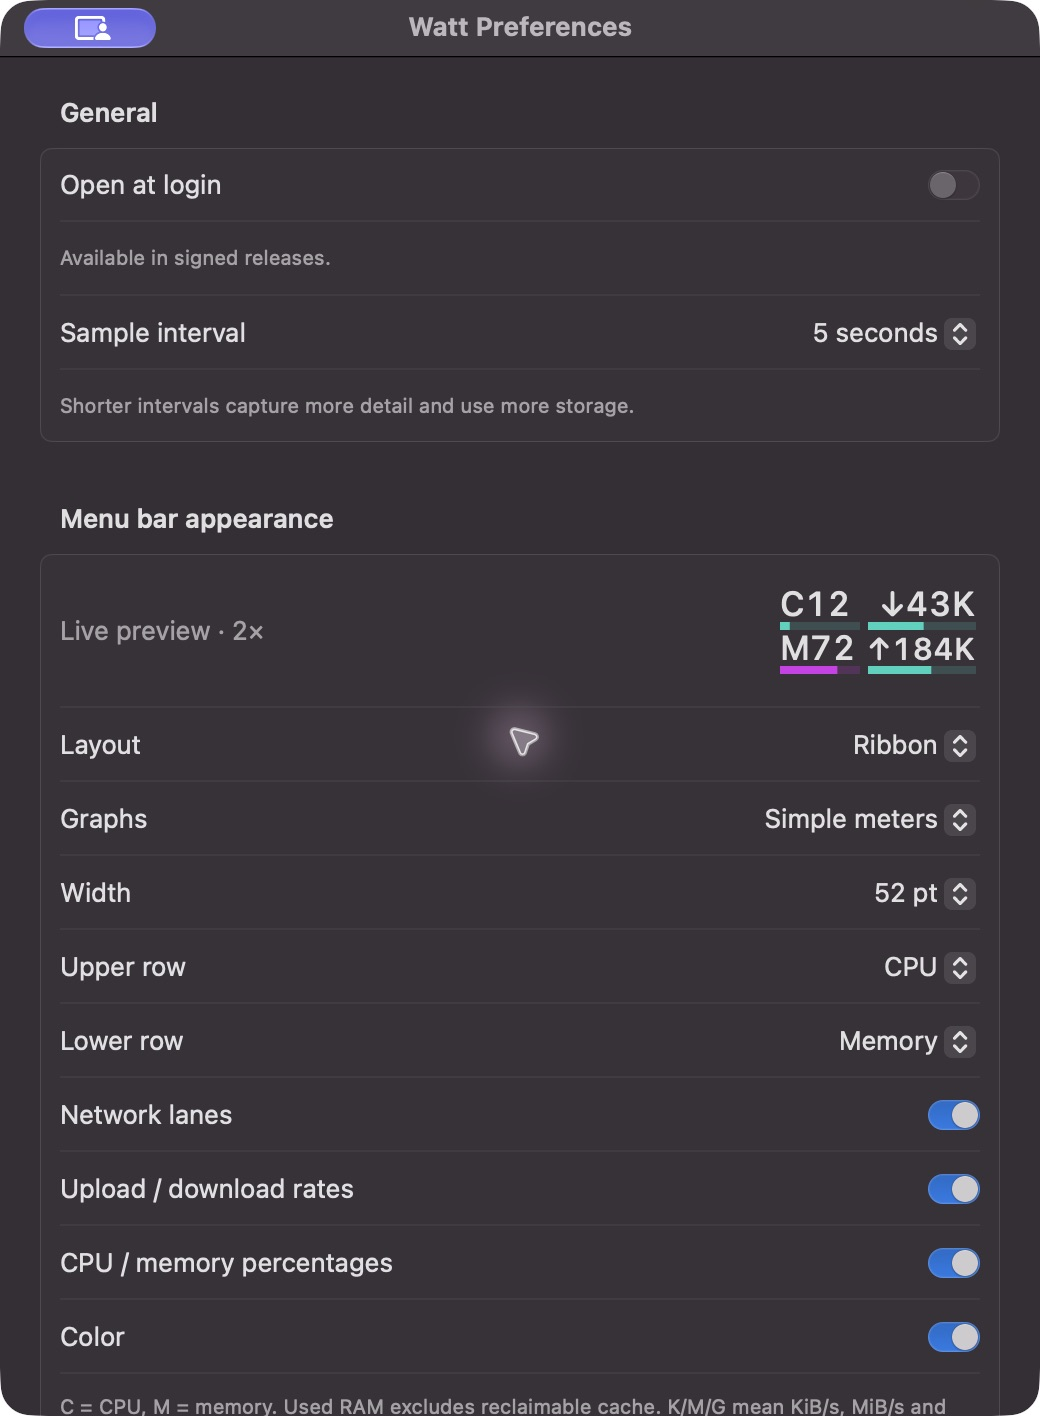
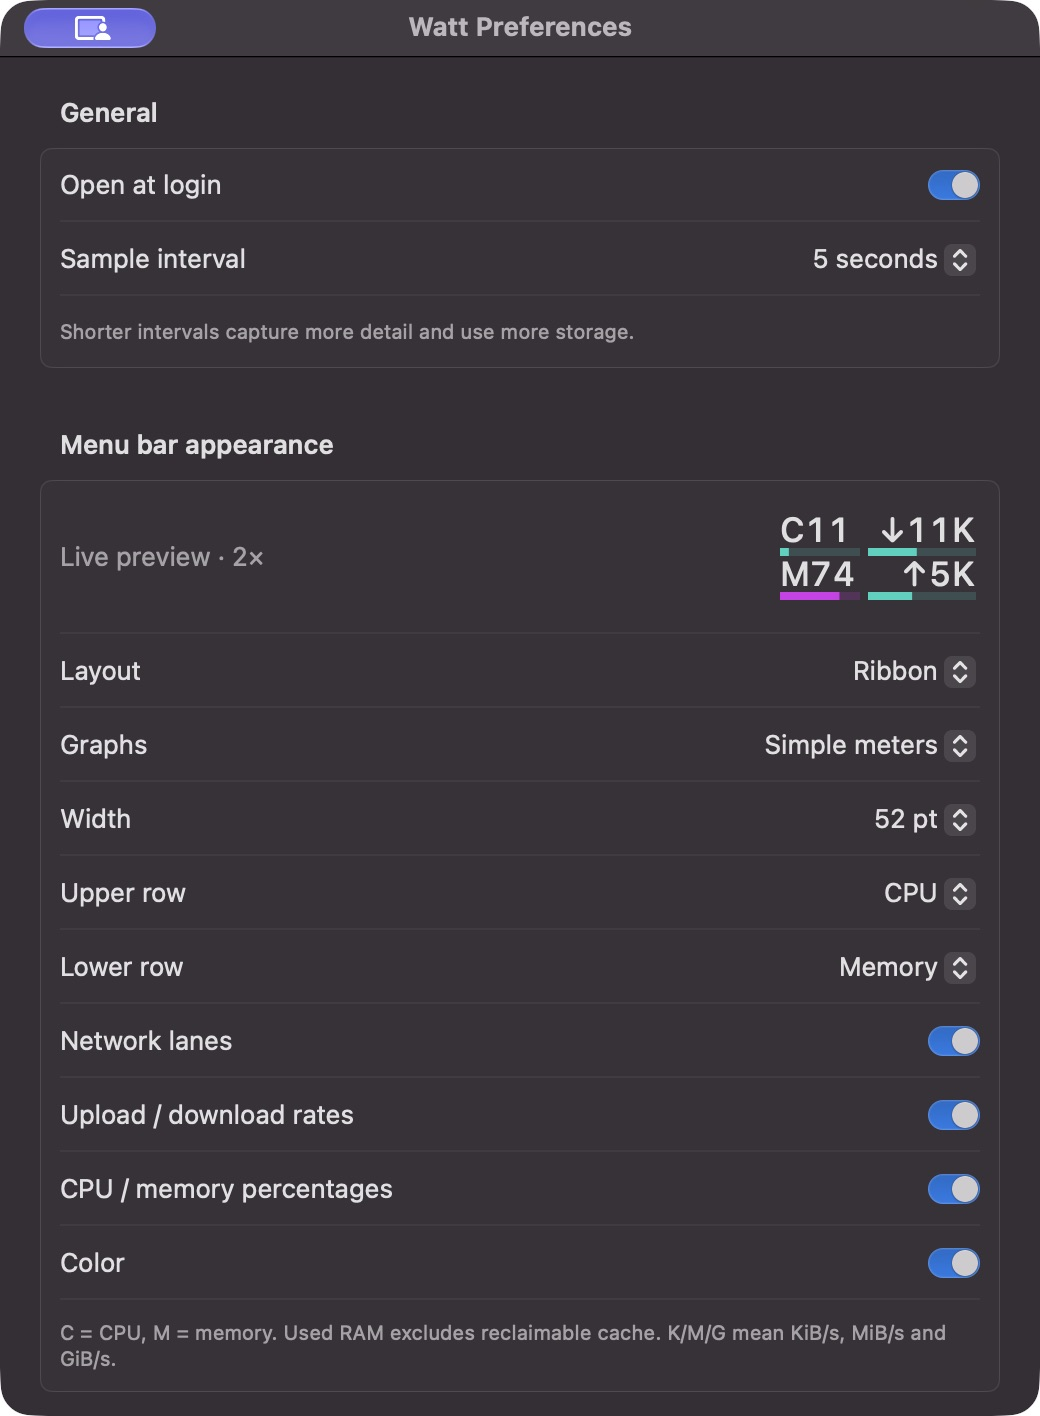
Support Apple Development-signed login builds

diff --git a/Sources/Watt/LoginItemManager.swift b/Sources/Watt/LoginItemManager.swift
@@ -1,5 +1,6 @@
 import Combine
 import Foundation
+import Security
 import ServiceManagement
 
 @MainActor protocol LoginItemService {
@@ -19,6 +20,37 @@ import ServiceManagement
 
 @MainActor final class LoginItemManager:ObservableObject {
     static let setupKey="loginItem.initialSetupCompleted"
+    // Main-app login items accept ordinary Apple-signed app builds. The energy
+    // helper has a separate Developer ID policy which does not apply here.
+    static var isSignedApp:Bool {
+        let bundle=Bundle.main
+        guard bundle.infoDictionary?["CFBundlePackageType"] as? String == "APPL",
+              bundle.bundleURL.pathExtension.lowercased()=="app",
+              bundle.bundleIdentifier==MenuBarSettings.preferencesDomain else {return false}
+        var code:SecCode?
+        guard SecCodeCopySelf([], &code)==errSecSuccess,let code else {return false}
+        var staticCode:SecStaticCode?
+        guard SecCodeCopyStaticCode(code,[],&staticCode)==errSecSuccess,let staticCode else {return false}
+        var information:CFDictionary?
+        guard SecCodeCopySigningInformation(staticCode,SecCSFlags(rawValue:kSecCSSigningInformation),&information)==errSecSuccess,
+              let info=information as? [String:Any],
+              let requirement=signingRequirement(bundleURL:bundle.bundleURL,bundleIdentifier:bundle.bundleIdentifier,
+                    signingIdentifier:info[kSecCodeInfoIdentifier as String] as? String,
+                    team:info[kSecCodeInfoTeamIdentifier as String] as? String) else {return false}
+        return SecCodeCheckValidity(code,[],requirement)==errSecSuccess
+    }
+    static func signingRequirement(bundleURL:URL,bundleIdentifier:String?,signingIdentifier:String?,team:String?)->SecRequirement? {
+        guard bundleURL.pathExtension.lowercased()=="app",
+              bundleIdentifier==MenuBarSettings.preferencesDomain,
+              signingIdentifier==MenuBarSettings.preferencesDomain,
+              let team,team.range(of:"^[A-Z0-9]{10}$",options:.regularExpression) != nil else {return nil}
+        // Both Apple Development and Developer ID chains satisfy this requirement;
+        // ad hoc signatures do not have an Apple anchor or certificate team.
+        let text=#"anchor apple generic and identifier "com.grahamgilbert.Watt" and certificate leaf[subject.OU] = "\#(team)""#
+        var requirement:SecRequirement?
+        guard SecRequirementCreateWithString(text as CFString,[],&requirement)==errSecSuccess else {return nil}
+        return requirement
+    }
     @Published private(set) var status:SMAppService.Status
     @Published private(set) var lastError:String?
     let isAvailable:Bool
@@ -27,6 +59,7 @@ import ServiceManagement
 
     var isEnabled:Bool {status == .enabled}
     var needsApproval:Bool {status == .requiresApproval}
+    var initialSetupCompleted:Bool {defaults.bool(forKey:Self.setupKey)}
 
     // Reading settings never registers anything. Only the real app's launch path
     // applies the default; tests, previews and benchmarks have no login side effects.

diff --git a/Sources/Watt/main.swift b/Sources/Watt/main.swift
@@ -151,9 +151,9 @@ struct LiveView:View {
     private let layoutPresenter=PopupLayoutEditorPresenter()
     lazy var updater=AppUpdater()
     let energyCollector=EnergyImpactCollector()
-    // Development copies share the preferences domain with the installed app.
-    // Only signed releases may change its real login registration.
-    private lazy var loginItems=LoginItemManager(isAvailable:energyCollector.isSignedBuild)
+    // Ad hoc copies share preferences with the installed app; only an eligible
+    // Apple-signed app bundle may change the real login registration.
+    private lazy var loginItems=LoginItemManager(isAvailable:LoginItemManager.isSignedApp)
     private var energyIntervalSubscription:AnyCancellable?
     private var energySleepObservers:[NSObjectProtocol]=[]
     var ribbon:Ribbon?
@@ -301,6 +301,19 @@ struct LiveView:View {
 
 if CommandLine.arguments.contains("--benchmark-ui") {
     MainActor.assumeIsolated {runUIPerformanceBenchmark()}
+    exit(0)
+}
+if CommandLine.arguments.contains("--diagnose-login") {
+    MainActor.assumeIsolated {
+        let manager=LoginItemManager(isAvailable:LoginItemManager.isSignedApp)
+        let report:[String:Any]=["bundle":Bundle.main.bundleURL.path,
+            "bundleIdentifier":Bundle.main.bundleIdentifier ?? "unbundled",
+            "status":manager.status.rawValue,"eligible":manager.isAvailable,
+            "initialSetupCompleted":manager.initialSetupCompleted]
+        guard let data=try? JSONSerialization.data(withJSONObject:report,options:[.sortedKeys]),
+              let text=String(data:data,encoding:.utf8) else {exit(1)}
+        print(text)
+    }
     exit(0)
 }
 if CommandLine.arguments.contains("--diagnose-settings") {

diff --git a/Tests/WattTests/LoginItemEligibilityTests.swift b/Tests/WattTests/LoginItemEligibilityTests.swift
@@ -1,0 +1,32 @@
+import Foundation
+import Security
+import XCTest
+@testable import Watt
+
+final class LoginItemEligibilityTests:XCTestCase {
+    @MainActor private func requirement(path:String="/private/tmp/Watt.app",bundleID:String?="com.grahamgilbert.Watt",
+                                        signingID:String?="com.grahamgilbert.Watt",team:String?="A1B2C3D4E5")->SecRequirement? {
+        LoginItemManager.signingRequirement(bundleURL:URL(fileURLWithPath:path),bundleIdentifier:bundleID,
+            signingIdentifier:signingID,team:team)
+    }
+    @MainActor func testValidAppIdentityProducesAnAppleSigningRequirement() async {
+        XCTAssertNotNil(requirement())
+    }
+    @MainActor func testUnbundledOrMismatchedIdentitiesCannotProduceAnEligibleRequirement() async {
+        XCTAssertNil(requirement(path:"/private/tmp/Watt"))
+        XCTAssertNil(requirement(path:"/private/tmp/Watt.xctest"))
+        XCTAssertNil(requirement(bundleID:nil))
+        XCTAssertNil(requirement(bundleID:"dev.watt.local"))
+        XCTAssertNil(requirement(signingID:nil))
+        XCTAssertNil(requirement(signingID:"com.grahamgilbert.Watt.EnergyHelper"))
+    }
+    @MainActor func testMissingOrMalformedTeamsAreRejectedBeforeRequirementCreation() async {
+        XCTAssertNil(requirement(team:nil))
+        for team in ["","SHORT","A1B2C3D4E56","abcdefghij","A1B2C3D4\"5"] {
+            XCTAssertNil(requirement(team:team))
+        }
+    }
+    @MainActor func testTheUnbundledTestRunnerIsNotEligible() async {
+        XCTAssertFalse(LoginItemManager.isSignedApp)
+    }
+}

diff --git a/Sources/Watt/MenuBarSettings.swift b/Sources/Watt/MenuBarSettings.swift
@@ -117,7 +117,7 @@ private struct LoginItemControls:View {
             .disabled(!manager.isAvailable)
             .accessibilityIdentifier("preferences.openAtLogin")
         if !manager.isAvailable {
-            Text("Available in signed releases.").font(.caption).foregroundStyle(.secondary)
+            Text("Available in signed app builds.").font(.caption).foregroundStyle(.secondary)
         } else if manager.needsApproval {
             HStack {
                 Text("Allow Watt in macOS Login Items to open at login.").font(.caption).foregroundStyle(.secondary)

diff --git a/README.md b/README.md
@@ -14,7 +14,7 @@ open dist/Watt.app
 
 Watt launches into the menu bar without opening or constructing Process Explorer. Click the menu bar item for the popup. Its controls are direct buttons: Open Process Explorer, Preferences and Quit. Preferences combines appearance, the sample interval, popup layout editing, and updates.
 
-Open at login is enabled by default on the first launch of a signed release. Change it in Preferences → General or macOS Login Items. Watt respects later opt-outs and opens only in the menu bar at login. macOS may require approval in System Settings. Development builds do not change login registration.
+Open at login is enabled by default on the first launch of an Apple-signed app build, including Apple Development and Developer ID builds. Change it in Preferences → General or macOS Login Items. Watt respects later opt-outs and opens only in the menu bar at login. macOS may require approval in System Settings. Ad hoc and unbundled command-line builds do not change login registration.
 
 ## One Process Explorer
 
